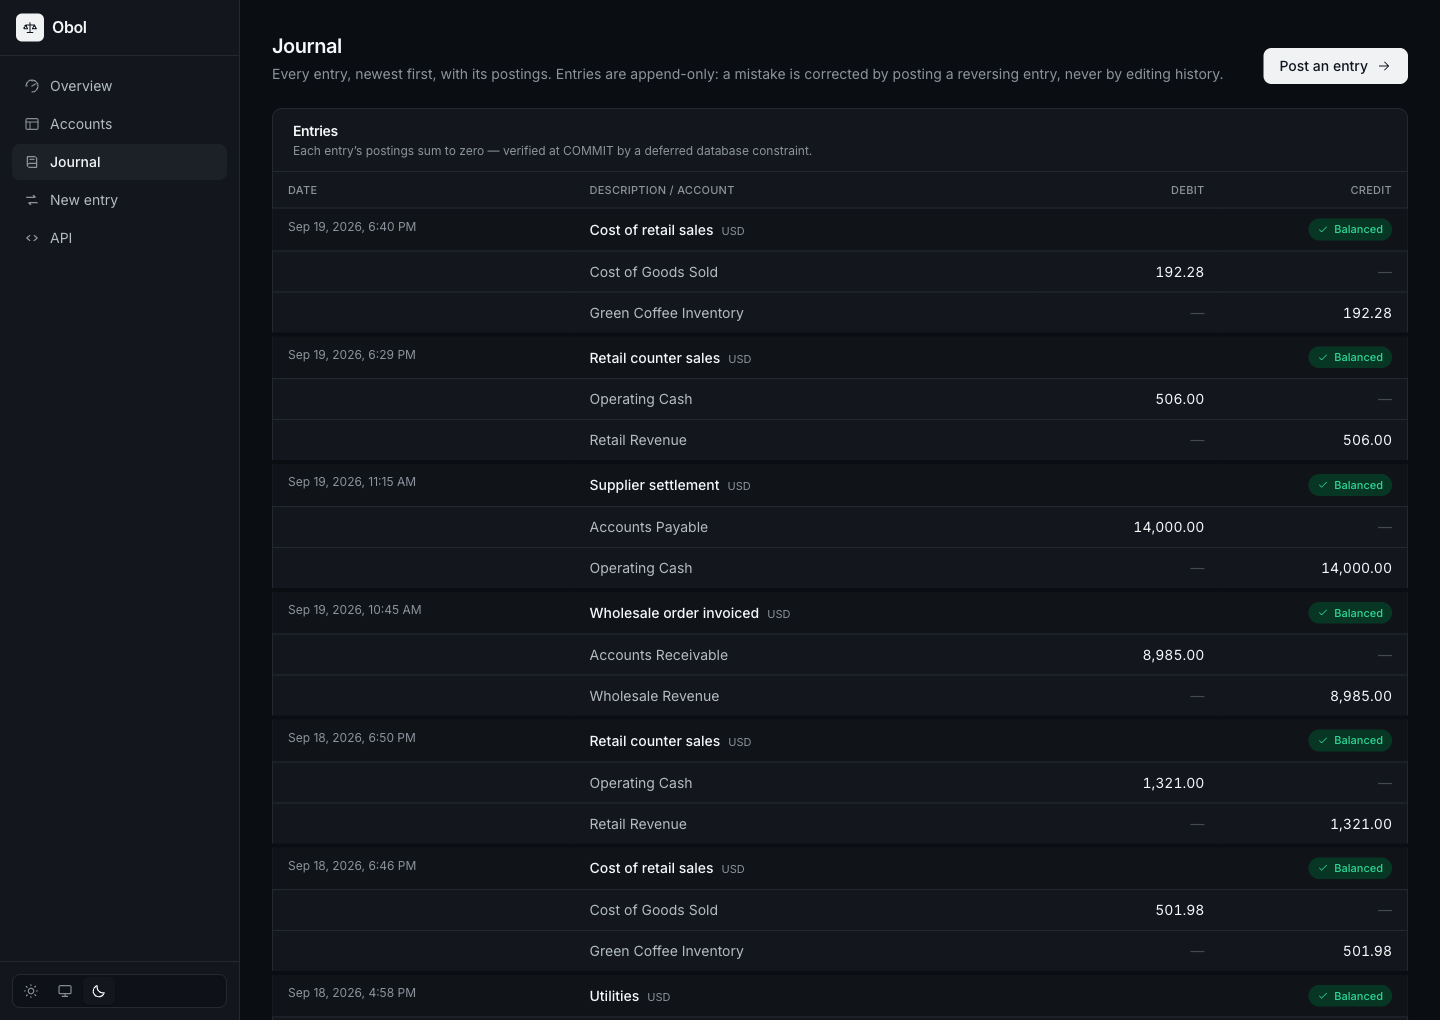
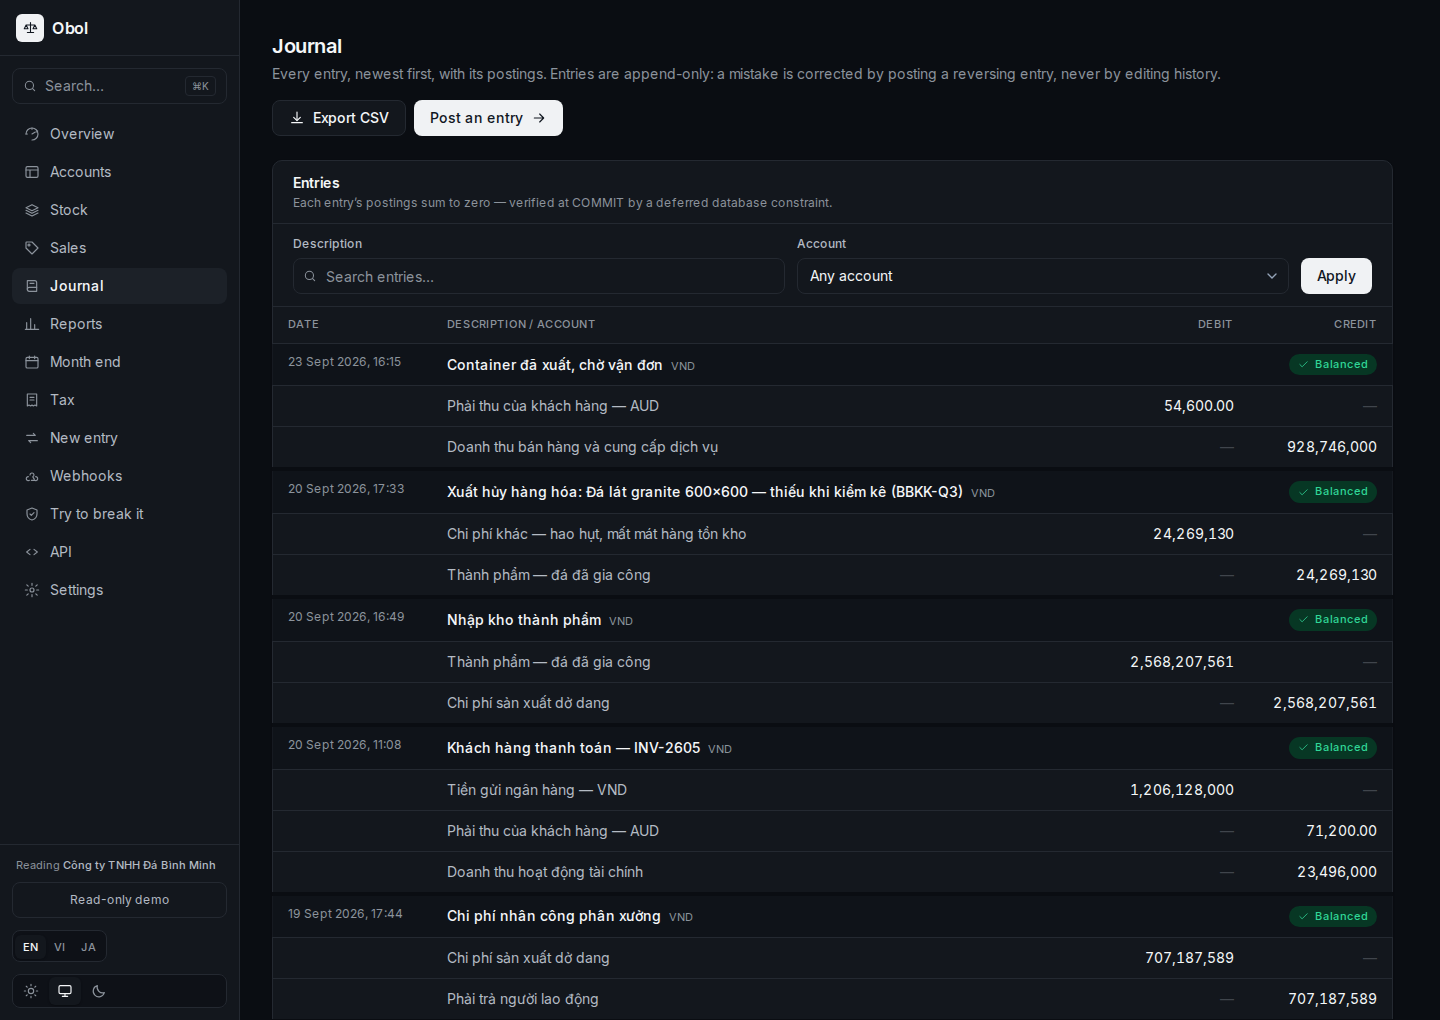
Open the README with the claim and the dare, and record why the dare is safe
An animated banner — a psql session in which Postgres refuses each
attack — replaces the badge row as the first thing a visitor sees, with
the live demo and /break linked beneath it. A new section shows the
attack page, tabulates each attack against the guard that stops it and
the SQLSTATE it returns, and draws where each rule lives: the
application's helpful refusal above, Postgres' unskippable one beneath.

ADR 20 records the decision to let anyone fire the attacks at the
published demo, the four properties that make that safe, and the
alternatives rejected. Screenshots are retaken to show the new banner
link and the quieter journal.

Claude-Session: https://claude.ai/code/session_01N2fQbNDRxsoYzybGWY351V

diff --git a/README.md b/README.md
@@ -1,16 +1,33 @@
-# Obol Ledger
+<p align="center">
+  <a href="https://obol-ledger.vercel.app/break">
+    <img src="docs/assets/banner.svg" alt="Obol Ledger — balanced by construction, refused by Postgres. A psql session tries to rewrite history, post an unbalanced entry and write into another tenant's books; Postgres refuses each one, and nothing is kept." width="100%">
+  </a>
+</p>
 
-[![CI](https://github.com/dnakhoa/obol-ledger/actions/workflows/ci.yml/badge.svg)](https://github.com/dnakhoa/obol-ledger/actions/workflows/ci.yml)
-[![Live](https://img.shields.io/badge/live-obol--ledger.vercel.app-0f172a)](https://obol-ledger.vercel.app)
-[![Licence](https://img.shields.io/badge/licence-MIT-0f172a)](LICENSE)
+<p align="center">
+  <a href="https://github.com/dnakhoa/obol-ledger/actions/workflows/ci.yml"><img alt="CI" src="https://github.com/dnakhoa/obol-ledger/actions/workflows/ci.yml/badge.svg"></a>
+  <a href="https://obol-ledger.vercel.app"><img alt="Live demo" src="https://img.shields.io/badge/live-obol--ledger.vercel.app-0f172a"></a>
+  <img alt="Tests" src="https://img.shields.io/badge/tests-1%2C100%2B%20on%20real%20Postgres-0f172a">
+  <img alt="TypeScript strict" src="https://img.shields.io/badge/TypeScript-strict-0f172a?logo=typescript&logoColor=white">
+  <img alt="Postgres 15+" src="https://img.shields.io/badge/Postgres-15%2B-0f172a?logo=postgresql&logoColor=white">
+  <a href="LICENSE"><img alt="Licence: MIT" src="https://img.shields.io/badge/licence-MIT-0f172a"></a>
+</p>
 
-**[Live demo →](https://obol-ledger.vercel.app)** · seeded with a quarter's
-trading for a Vietnamese stone exporter — FIFO lots, export invoices in three
-currencies, landed cost and VAT returns — kept in dong under Thông tư 200.
+<p align="center">
+  <a href="https://obol-ledger.vercel.app"><b>Live demo</b></a> ·
+  <a href="https://obol-ledger.vercel.app/break"><b>Try to break it</b></a> ·
+  <a href="docs/design-rationale.md">Design rationale</a> ·
+  <a href="docs/architecture.md">Architecture</a> ·
+  <a href="#documentation">20 ADRs</a>
+</p>
 
 A double-entry ledger with a typed HTTP API and a server-rendered dashboard.
 Entries are balanced by construction, history is append-only, and the rules are
 enforced by Postgres as well as by the application.
+
+The [live demo](https://obol-ledger.vercel.app) is seeded with a quarter's
+trading for a Vietnamese stone exporter — FIFO lots, export invoices in three
+currencies, landed cost and VAT returns — kept in dong under Thông tư 200.
 
 Built as a demonstration of production-shaped engineering: the interesting parts
 are the invariants and where they live, not the CRUD.
@@ -33,7 +50,68 @@ pagination · optimistic concurrency · **row-level tenant isolation** ·
 with a GIN index · CSV export · Prometheus metrics · generated OpenAPI ·
 English, Tiếng Việt and 日本語 · ⌘K
 
-![The overview, in dark mode: a trial-balance banner reading "The books balance", headline figures, a 30-day posting-volume chart, and the accounting equation by account class](docs/screenshots/overview-dark.png)
+![The overview, in dark mode: a trial-balance banner reading "The books balance" with an invitation to try to break it, headline figures, a 30-day posting-volume chart, and the accounting equation by account class](docs/screenshots/overview-dark.png)
+
+## Try to break it
+
+Saying the database enforces the rules is cheap. **[`/break`](https://obol-ledger.vercel.app/break)**
+lets you check: nine attacks, written as raw SQL that goes around every
+service, fired at the live demo's tables from a button. Postgres answers each
+one in its own words — SQLSTATE, condition, constraint — and the page prints
+the statement it refused.
+
+![Try to break it: a scoreboard reading "9 of 9 stopped by Postgres" above attack cards, each with the exact SQL in a terminal and the Postgres error that refused it](docs/screenshots/break-dark.png)
+
+| Attack                               | What stops it                                     | Postgres says                                 |
+| ------------------------------------ | ------------------------------------------------- | --------------------------------------------- |
+| Post an entry that is off by one     | deferred constraint trigger, checked at `COMMIT`  | `23514` … is unbalanced by 1 minor units      |
+| Rewrite history                      | `BEFORE UPDATE` trigger on `postings`             | `23001` postings is append-only               |
+| Delete an entry                      | `BEFORE DELETE` trigger on `transactions`         | `23001` transactions is append-only           |
+| Spend money that is not there        | `CHECK` on the trigger-maintained balance         | `23514` `accounts_overdraft_check`            |
+| Post in a currency the account lacks | composite foreign key on `(account_id, currency)` | `23503` `postings_account_currency_fk`        |
+| Reverse the same entry twice         | partial unique index                              | `23505` `transactions_one_reversal_per_entry` |
+| Back-date into a closed month        | `BEFORE INSERT` trigger on `transactions`         | `23001` period … is closed                    |
+| Write into another company's books   | row-level security, `WITH CHECK`                  | `42501` new row violates row-level security   |
+| Read another company's books         | row-level security, `FORCE`d                      | `(0 rows)`                                    |
+
+It is safe to leave on a public demo because **every attack is one
+transaction that ends in `ROLLBACK` whatever happens** — including one that
+gets through, which is the case the page exists to detect. The balance rule
+normally speaks only at `COMMIT`, which never comes, so the attack ends with
+`SET CONSTRAINTS ALL IMMEDIATE`: Postgres runs the deferred check then,
+exactly as `COMMIT` would. The SQL shown is the SQL executed; nothing in it
+comes from the request. See [ADR 20](docs/adr/0020-attacks-on-the-live-demo.md).
+
+[`tests/integration/attacks.test.ts`](tests/integration/attacks.test.ts) holds
+the page to both promises: each attack is refused by the guard it names, not
+by some other error that happens to fire first, and when a guard is removed on
+purpose the page reports a breach — and still leaves every row and balance
+exactly as it found them.
+
+### Where each rule lives
+
+Every rule is checked twice: once in the domain layer, to return an error a
+person can act on, and once in Postgres, as the floor beneath it for every
+writer the application never sees.
+
+```mermaid
+flowchart TB
+  UI["Dashboard · Server Actions"] --> APP
+  API["HTTP API · /api/v1"] --> APP
+  PSQL["psql · a migration · a second service"]
+
+  APP["<b>Application — the helpful refusal</b><br/>zod schemas → domain rules → services,<br/>one transaction per tenant"]
+
+  subgraph pg["Postgres — the refusal nobody can skip"]
+    direction LR
+    RLS["Row-level security<br/>FORCEd, WITH CHECK"] --> TRIG["Row triggers<br/>append-only · closed months"]
+    TRIG --> KEYS["Constraints · indexes<br/>overdraft · currency FK ·<br/>one reversal per entry"]
+    KEYS --> DEFER["Deferred trigger<br/>balanced at COMMIT"]
+  end
+
+  APP --> RLS
+  PSQL -. "goes around the application" .-> RLS
+```
 
 <details>
 <summary>More screens</summary>
@@ -74,6 +152,13 @@ pages in one list, because the person typing does not know which of the three
 their reference lives in.
 
 ![The command palette open over the chart of accounts, showing a matching account with its balance and six matching entries with their dates and statuses](docs/screenshots/palette-dark.png)
+
+**Try to break it, in light mode.** The terminal stays dark in both themes:
+it is a psql session, and reads as one against either surface. Its colours are
+its own rather than borrowed from the status palette, so a highlighted keyword
+can never be mistaken for "the books balance".
+
+![The attack page in light mode: the scoreboard reading 9 of 9 stopped, and the first attacks with their SQL and refusals](docs/screenshots/break-light.png)
 
 **Light mode.** Not an inversion — the dark steps were chosen against the dark
 surface, which is why neither theme has the washed-out greys an algorithmic
@@ -261,7 +346,7 @@ in the test process. The migrations are applied verbatim, so the plpgsql trigger
 and the deferred constraint are exercised as they will be in production.
 
 ```
-1,097 tests · 61 files · no external services
+1,132 tests · 64 files · no external services
 ```
 
 ### Foreign exchange, for the businesses that actually feel it
@@ -492,6 +577,7 @@ including the metadata filter and every problem type, are in the
 - [ADR 17](docs/adr/0017-tax-returns.md) — a tax return is a journal entry
 - [ADR 18](docs/adr/0018-sales-and-margin.md) — a sale is the invoice and the stock that left, in one entry
 - [ADR 19](docs/adr/0019-ageing-by-due-date.md) — what is owed ages from when it falls due
+- [ADR 20](docs/adr/0020-attacks-on-the-live-demo.md) — let a stranger attack the live demo
 
 ## Licence
 

diff --git a/docs/adr/0020-attacks-on-the-live-demo.md b/docs/adr/0020-attacks-on-the-live-demo.md
@@ -1,0 +1,92 @@
+# 20. Let a stranger attack the live demo
+
+- **Status**: Accepted
+- **Date**: 2026-09-24
+
+## Context
+
+The central claim of this project is that the ledger's rules are enforced by
+Postgres as well as by the application, so a writer that never sees the
+application — psql, a migration, a second service — still cannot corrupt the
+books. [ADR 1](0001-invariants-in-the-database.md) makes the decision and
+`tests/integration/schema.test.ts` proves it.
+
+Neither is something a visitor will read. A README that says "the database
+refuses an unbalanced entry" sounds the same as one that is wrong, and a
+screenshot of a green "The books balance" banner is what every ledger shows,
+including the ones that do not balance. The claim that matters most is the
+one a reader has least reason to believe.
+
+## Decision
+
+Publish the attacks. `/break` fires nine of them — an unbalanced entry, an
+edit to a posting, a deleted entry, an overdraft, a posting in the wrong
+currency, a second reversal, an entry back-dated into a closed month, a write
+into another tenant and a read of one — as raw SQL at the tables the rest of
+the site reads, and prints what Postgres said: SQLSTATE, condition name,
+constraint.
+
+Four properties make that safe to run for anyone, signed in or not:
+
+1. **Every attack is one transaction that always rolls back.** Not "rolls back
+   when refused": the callback ends by throwing, whether Postgres raised or
+   not, so an attack that gets through leaves nothing either. That is the case
+   the page exists to detect, and it must not become the corruption it
+   reports. A test drops `postings_append_only`, fires the edit, asserts the
+   page calls it a breach, and asserts every row and balance is unchanged.
+
+2. **The deferred rule is checked without a COMMIT.** The balance trigger is
+   `DEFERRABLE INITIALLY DEFERRED` and speaks only at `COMMIT`, which never
+   comes. `SET CONSTRAINTS ALL IMMEDIATE` makes Postgres run the pending
+   checks at that statement, exactly as `COMMIT` would. It is shown as a
+   statement of its own, with a comment saying why.
+
+3. **Nothing in the SQL comes from the request.** The action takes an attack id
+   from a fixed list. Every value spliced into a statement was read from the
+   tenant's own rows a moment earlier, re-checked against an identifier shape
+   and quoted. Free text a tenant wrote — an entry's description — is carried
+   beside the SQL for display and never inside it.
+
+4. **It costs a bounded amount.** Each attack sets a 3 s statement timeout and a
+   1 s lock timeout, so meeting a row a real writer holds ends in a second
+   rather than a queue; and the action is rate-limited per client by the same
+   Postgres-backed limiter the API uses, because "run all nine" from a script
+   against a fleet of cold starts is exactly what an in-process counter waves
+   through.
+
+The statements are executed as text rather than as parameterised queries so
+that the SQL on the page is the SQL that ran. A paraphrase of a query is not
+evidence.
+
+## Consequences
+
+**The page reports what this connection can see, including its weaknesses.**
+Against a role with `BYPASSRLS` the two tenancy attacks succeed. The page says
+so above the attacks rather than after them, and names the role, because a
+proof that only works where it has been arranged to is not one.
+
+**It locks real rows for milliseconds.** An overdraft attempt updates the
+account's cached balance before the check refuses it, so it holds that row's
+lock until the rollback. On a read-only demo nothing else writes; on a
+signed-in tenant's own ledger it is their own attack delaying their own write.
+
+**The attacks are aimed, not fixed.** Each reads the tenant's newest entry,
+largest cash account or earliest open month first, so they work on any ledger
+with something in it — and on an empty one they say there is nothing to aim at
+instead of failing.
+
+**A new rule should arrive with an attack.** The table in the README and the
+cards on the page are the most-read description of what the database enforces.
+A guard added without one is true and invisible.
+
+## Considered and rejected
+
+- **A recorded video of the attacks.** Proves only that they failed once, on
+  the author's machine.
+- **A sandbox database per visitor.** Would prove the rules hold on a
+  database the visitor has never seen; the point is that they hold on the one
+  serving the demo.
+- **Letting the visitor type SQL.** A general SQL console, even rolled back, is
+  a denial-of-service and data-exfiltration surface whose safety rests on the
+  role's grants being perfect forever. Nine fixed attacks make the same argument
+  with none of that.

diff --git a/docs/architecture.md b/docs/architecture.md
@@ -57,6 +57,13 @@ Read the table downward for helpfulness and upward for authority. The database
 is the floor; the layers above exist to turn its refusals into something a
 caller can act on.
 
+The floor is also the one layer a reader can test from the outside.
+[`/break`](https://obol-ledger.vercel.app/break) skips the top two rows
+entirely and fires raw SQL at the live tables, inside a transaction that is
+always rolled back, so the bottom row's refusals can be watched rather than
+taken on trust — nine of them, one per rule. See
+[ADR 20](adr/0020-attacks-on-the-live-demo.md).
+
 ## Errors
 
 Domain failures are values, not exceptions. `postEntry` returns
